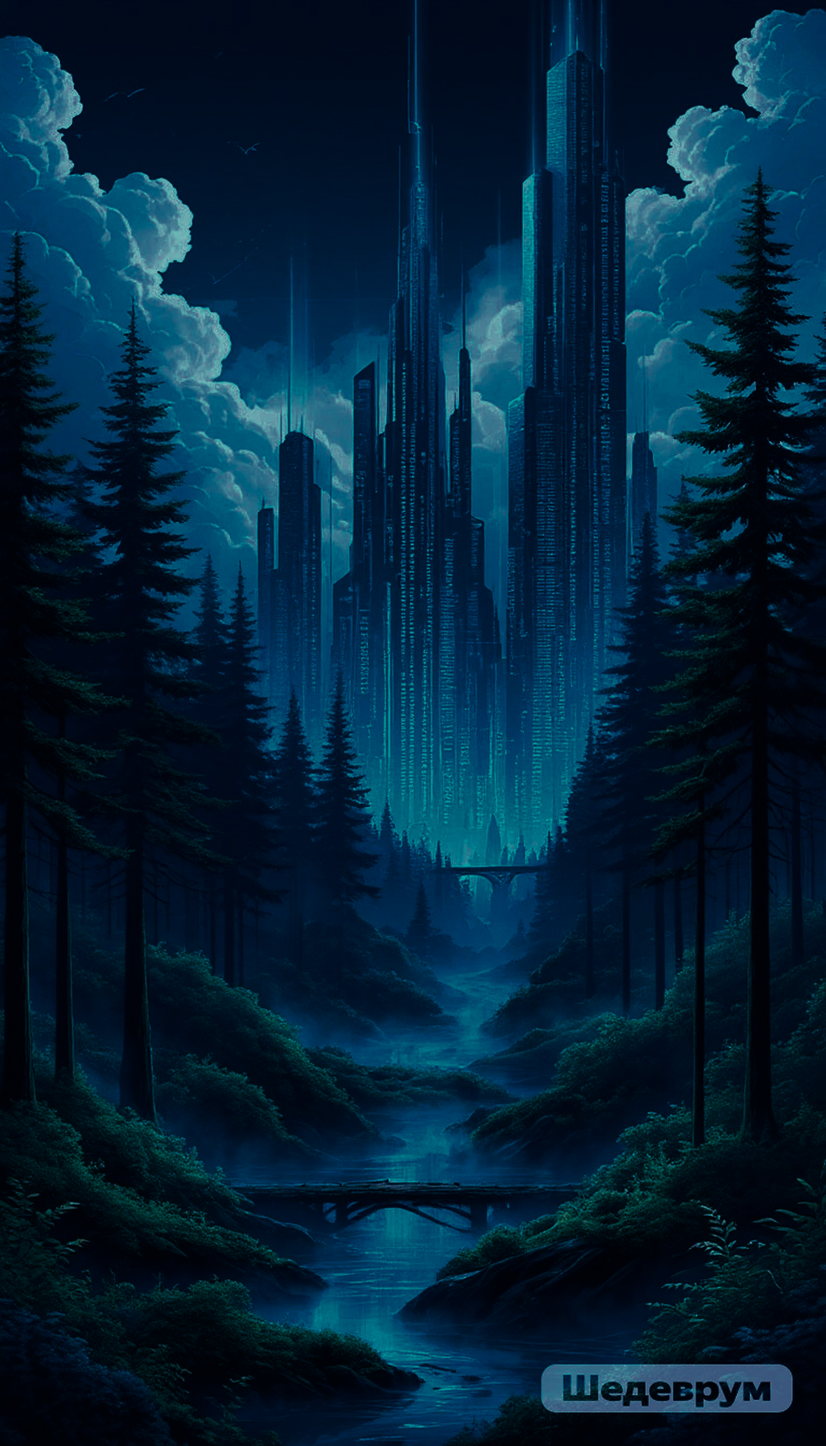
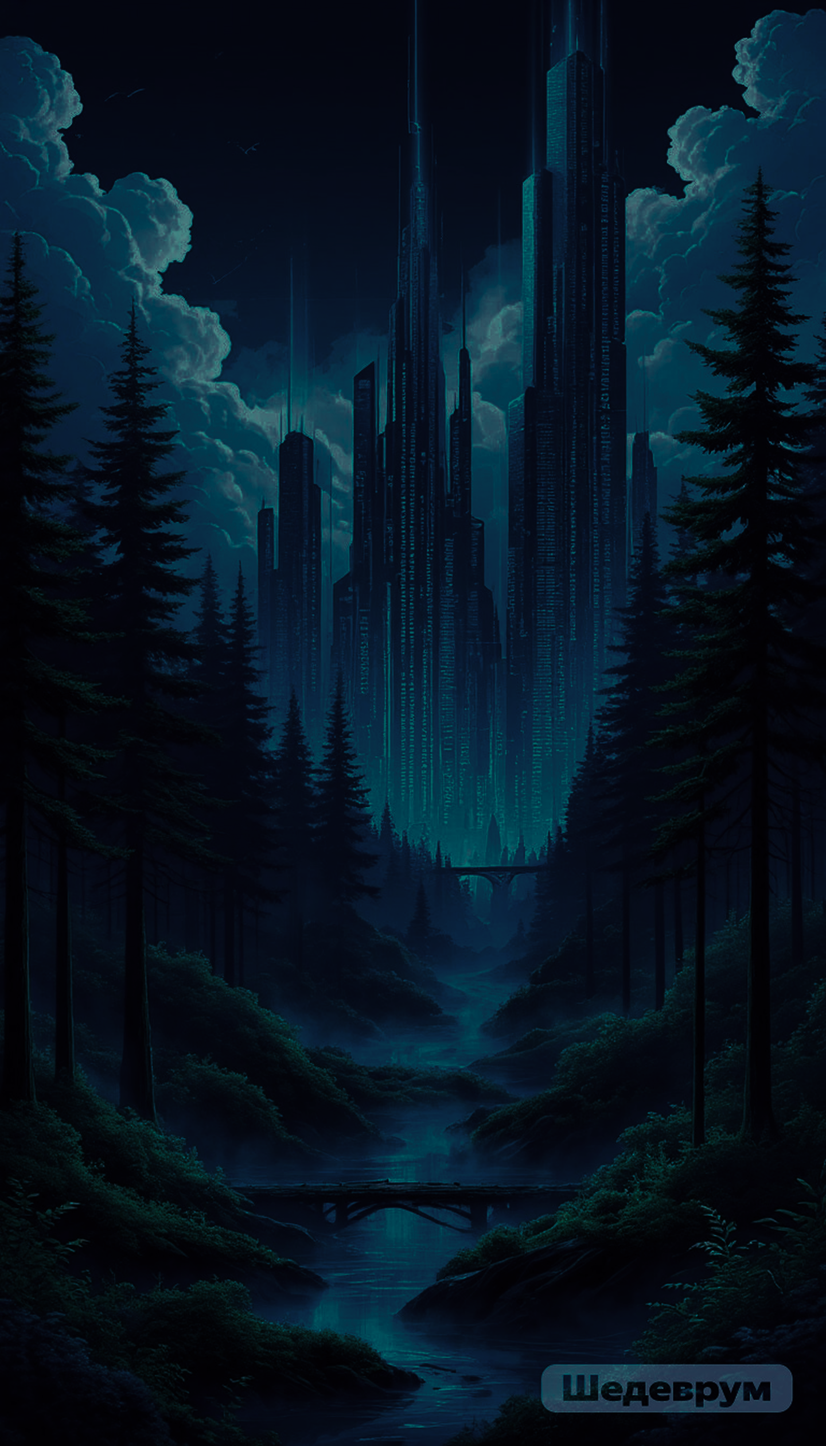
add component

diff --git a/src/app/shared/order/order.component.html b/src/app/shared/order/order.component.html
@@ -46,6 +46,7 @@
                 <div class="order-status-change-data">Дата изменения: {{order.orderStatus.dateOfChange}}</div>
                 <div class="order-status-comment">Комментарий: {{order.orderStatus.comment}}</div>
                 <div class="order-status-history">
+
                     <div class="order-status-history-title title-h5">История заказа</div>
                     @for(orderSH of orderStatusHistoryShort; track orderSH){
                         <span class="order-status-short">{{orderSH.status}}</span>
@@ -73,7 +74,7 @@
                     @if(order.orderPrice){
                         <div class="order-price">Стоимость заказа: {{order.orderPrice}}</div>
                     }
-                    @if(payment){
+                    @if(payment && payment.lastPayment){
                     <div class="order-payment-amount">Получено за заказ: {{payment.amount}}</div>
                     <div class="order-payment-last">Предыдущий платеж:
                         <span class="order-payment-payment">Сумма: {{payment.lastPayment.payment}}</span>

diff --git a/src/app/app.routes.ts b/src/app/app.routes.ts
@@ -12,7 +12,7 @@ export const routes: Routes = [
       {
         path: '',
         component: MainComponent,
-        data: { backgroundImage: 'assets/images/body-bg/main-bg.png' }
+        data: { backgroundImage: 'assets/images/body-bg/main-bg3.png' }
       },
       {
         path: 'order/:orderId',
@@ -20,7 +20,8 @@ export const routes: Routes = [
         data: { backgroundImage: 'assets/images/body-bg/order-bg.png'}
       },
       { path: 'orders',
-        loadComponent: () => import('./shared').then(m => m.OrdersComponent)
+        loadComponent: () => import('./shared').then(m => m.OrdersComponent),
+        data: { backgroundImage: 'assets/images/body-bg/orders-bg2.png'}
       },
     ]
   },

diff --git a/src/app/shared/order/order.component.ts b/src/app/shared/order/order.component.ts
@@ -64,6 +64,7 @@ export class OrderComponent implements OnInit {
               this.paymentService.getPaymentByOrderId(this.order.orderId)
                 .subscribe((payment: OrderPayment) => {
                   this.payment = payment;
+                  console.log(this.payment);
                 })
             }
 
@@ -89,7 +90,7 @@ export class OrderComponent implements OnInit {
   protected changeIsHistoryPaymentActive() {
     this.isHistoryPaymentActive = !this.isHistoryPaymentActive;
   }
-  protected addPayment() {
+  protected addPayment(orderId: number) {
     if (this.paymentForm.valid) {
       const today = new Date();
       const day = String(today.getDate()).padStart(2, '0');
